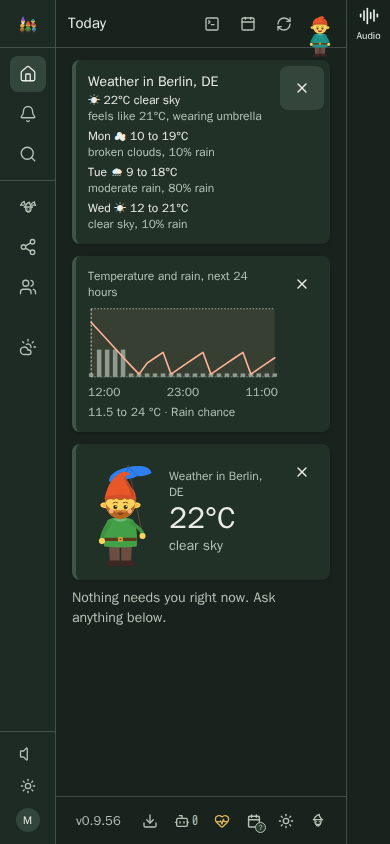
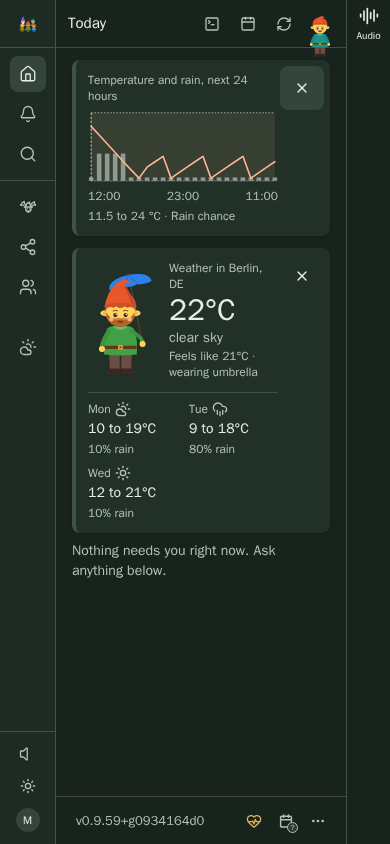
docs(weather): one weather card in the gallery, changelog for 0.6.0

diff --git a/plugins/heinzel-weather/docs/assets/screenshots/index.html b/plugins/heinzel-weather/docs/assets/screenshots/index.html
@@ -1,1 +1,1 @@
-<!doctype html><html lang="en"><meta charset="utf-8"><meta name="viewport" content="width=device-width"><title>heinzel-weather screenshots</title><style>body{font:16px/1.6 system-ui;margin:2rem;background:#faf8f3;color:#263b32}main{display:grid;grid-template-columns:repeat(auto-fit,minmax(min(100%,420px),1fr));gap:1rem}figure{margin:0;padding:1rem;background:white;border:1px solid #d8ddd3;border-radius:12px}img{width:100%;height:auto}figcaption{margin-top:.75rem}a:focus-visible{outline:3px solid #a64028}</style><h1>heinzel-weather</h1><p>Isolated demonstration profile · Core 0.9.56 · Review these captures before committing. Click an image to inspect it at full size.</p><main><figure><a href="today-weather.png"><img src="today-weather.png" alt="Current weather and the coming days on Today — fictional Berlin forecast"></a><figcaption>UI · Current weather and the coming days on Today — fictional Berlin forecast</figcaption></figure><figure><a href="weather-detail.png"><img src="weather-detail.png" alt="Inspect conditions, feels-like temperature and rain chance — fictional local forecast"></a><figcaption>UI · Inspect conditions, feels-like temperature and rain chance — fictional local forecast</figcaption></figure><figure><a href="weather-page.png"><img src="weather-page.png" alt="Explore current conditions, the hourly outlook and a warning — fictional Berlin forecast"></a><figcaption>UI · Explore current conditions, the hourly outlook and a warning — fictional Berlin forecast</figcaption></figure><figure><a href="phone-weather.png"><img src="phone-weather.png" alt="Weather and near forecast in the phone-sized Today view — fictional local forecast"></a><figcaption>UI · Weather and near forecast in the phone-sized Today view — fictional local forecast</figcaption></figure><figure><a href="cli-weather.png"><img src="cli-weather.png" alt="Hourly conditions and approaching rain through the real CLI — local fictional forecast"></a><figcaption>CLI · Hourly conditions and approaching rain through the real CLI — local fictional forecast</figcaption></figure><figure><a href="cli-forecast.png"><img src="cli-forecast.png" alt="A concise three-day outlook through the real CLI — local fictional forecast"></a><figcaption>CLI · A concise three-day outlook through the real CLI — local fictional forecast</figcaption></figure></main></html>
+<!doctype html><html lang="en"><meta charset="utf-8"><meta name="viewport" content="width=device-width"><title>heinzel-weather screenshots</title><style>body{font:16px/1.6 system-ui;margin:2rem;background:#faf8f3;color:#263b32}main{display:grid;grid-template-columns:repeat(auto-fit,minmax(min(100%,420px),1fr));gap:1rem}figure{margin:0;padding:1rem;background:white;border:1px solid #d8ddd3;border-radius:12px}img{width:100%;height:auto}figcaption{margin-top:.75rem}a:focus-visible{outline:3px solid #a64028}</style><h1>heinzel-weather</h1><p>Isolated demonstration profile · Core 0.9.59+g0934164d0 · Review these captures before committing. Click an image to inspect it at full size.</p><main><figure><a href="today-weather.png"><img src="today-weather.png" alt="One weather card on Today: the dressed Heinzel, the temperature now and the next three days — fictional Berlin forecast"></a><figcaption>UI · One weather card on Today: the dressed Heinzel, the temperature now and the next three days — fictional Berlin forecast</figcaption></figure><figure><a href="weather-detail.png"><img src="weather-detail.png" alt="Inspect conditions, feels-like temperature and rain chance — fictional local forecast"></a><figcaption>UI · Inspect conditions, feels-like temperature and rain chance — fictional local forecast</figcaption></figure><figure><a href="weather-page.png"><img src="weather-page.png" alt="Explore current conditions, the hourly outlook and a warning — fictional Berlin forecast"></a><figcaption>UI · Explore current conditions, the hourly outlook and a warning — fictional Berlin forecast</figcaption></figure><figure><a href="phone-weather.png"><img src="phone-weather.png" alt="The one weather card in the phone-sized Today view — fictional local forecast"></a><figcaption>UI · The one weather card in the phone-sized Today view — fictional local forecast</figcaption></figure><figure><a href="cli-weather.png"><img src="cli-weather.png" alt="Hourly conditions and approaching rain through the real CLI — local fictional forecast"></a><figcaption>CLI · Hourly conditions and approaching rain through the real CLI — local fictional forecast</figcaption></figure><figure><a href="cli-forecast.png"><img src="cli-forecast.png" alt="A concise three-day outlook through the real CLI — local fictional forecast"></a><figcaption>CLI · A concise three-day outlook through the real CLI — local fictional forecast</figcaption></figure></main></html>

diff --git a/plugins/heinzel-weather/tests/unit/ui_test.py b/plugins/heinzel-weather/tests/unit/ui_test.py
@@ -75,7 +75,7 @@ def test_one_today_card_holds_the_figure_the_temperature_what_it_wears_and_the_n
         assert row.detail == f"{round(day.rain_chance * 100)}% rain"
         assert row.icon is not None
         assert row.icon_label == day.description.capitalize()  # the icon in words, for a screen reader
-        assert row.hint == f"{day.description.capitalize()}, {round(day.rain_chance * 100)}% rain"
+        assert row.hint == day.description.capitalize()
 
 
 def test_the_card_says_nothing_worn_when_nothing_is_and_never_shows_minus_zero(service):

diff --git a/plugins/heinzel-weather/src/heinzel_weather/__init__.py b/plugins/heinzel-weather/src/heinzel_weather/__init__.py
@@ -203,7 +203,7 @@ def _day_row(day: Day, degree: str) -> GraphicRow:
         icon=ui_icon(day.condition),
         icon_label=sky[:MAX_TEXT],
         detail=rain,
-        hint=f"{sky}, {rain}"[:MAX_TEXT],
+        hint=sky[:MAX_TEXT],  # the sky in words as the tooltip; the rain chance is on the row already
     )
 
 

diff --git a/plugins/heinzel-weather/README.md b/plugins/heinzel-weather/README.md
@@ -33,8 +33,9 @@ Contributed as data (ADR 0056), nothing to install on the app's side:
   and mph by locale. The button beside the place name opens Settings > Weather; without a place it asks for one.
 - A status item in the footer and the sidebar: the temperature and sky, with the place, feels-like, what the
   Heinzelmännchen wears; "Change place" opens Settings > Weather; nothing is typed into a terminal.
-- Today: a graphic with the temperature beside the Heinzelmännchen dressed for the weather (an umbrella in or near rain,
-  sunglasses in clear daylight, a scarf in the cold), and a list of the next days.
+- Today: one card with the Heinzelmännchen dressed for the weather (an umbrella in or near rain, sunglasses in clear
+  daylight, a scarf in the cold), the temperature now, the sky, what it feels like and what it wears, and the next three
+  days (low to high, rain chance; the sky in words for screen readers and as the tooltip).
 - Notices (the daemon's `weather.watch` job) when rain starts within the hour, the temperature swings or, with
   OpenWeather, an alert is issued.
 
@@ -95,9 +96,9 @@ Development and release commands: [repository guide](../../README.md).
 <!-- screenshots:start -->
 ## Screenshots
 
-<img src="docs/assets/screenshots/today-weather.png" alt="Current weather and the coming days on Today — fictional Berlin forecast" width="960">
+<img src="docs/assets/screenshots/today-weather.png" alt="One weather card on Today: the dressed Heinzel, the temperature now and the next three days — fictional Berlin forecast" width="960">
 
-Current weather and the coming days on Today — fictional Berlin forecast
+One weather card on Today: the dressed Heinzel, the temperature now and the next three days — fictional Berlin forecast
 
 <img src="docs/assets/screenshots/weather-detail.png" alt="Inspect conditions, feels-like temperature and rain chance — fictional local forecast" width="960">
 
@@ -107,9 +108,9 @@ Inspect conditions, feels-like temperature and rain chance — fictional local f
 
 Explore current conditions, the hourly outlook and a warning — fictional Berlin forecast
 
-<img src="docs/assets/screenshots/phone-weather.png" alt="Weather and near forecast in the phone-sized Today view — fictional local forecast" width="960">
+<img src="docs/assets/screenshots/phone-weather.png" alt="The one weather card in the phone-sized Today view — fictional local forecast" width="960">
 
-Weather and near forecast in the phone-sized Today view — fictional local forecast
+The one weather card in the phone-sized Today view — fictional local forecast
 
 <details>
 <summary>Command line</summary>

diff --git a/plugins/heinzel-weather/CHANGELOG.md b/plugins/heinzel-weather/CHANGELOG.md
@@ -1,5 +1,9 @@
 # Changelog
 
+## 0.6.0
+
+Today shows one weather card instead of two: the Heinzel dressed for the weather, the temperature now, the sky, what it feels like and what it wears, and the next three days (low to high, rain chance, an icon with the sky in words, which is also its tooltip). On a phone the days wrap under the figure. If you had hidden or shown the old forecast card, the one card keeps that choice. The footer and sidebar temperature stay as they were. Needs Heinzel Core 0.9.59.
+
 ## 0.5.9
 
 Package the Weather forecast view once when building a wheel from a source snapshot.
